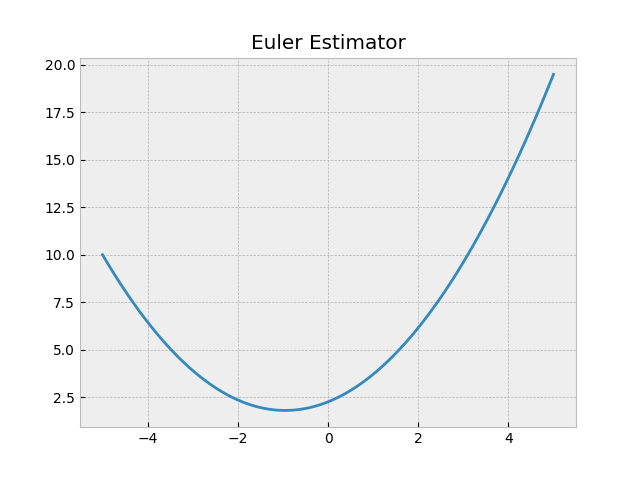
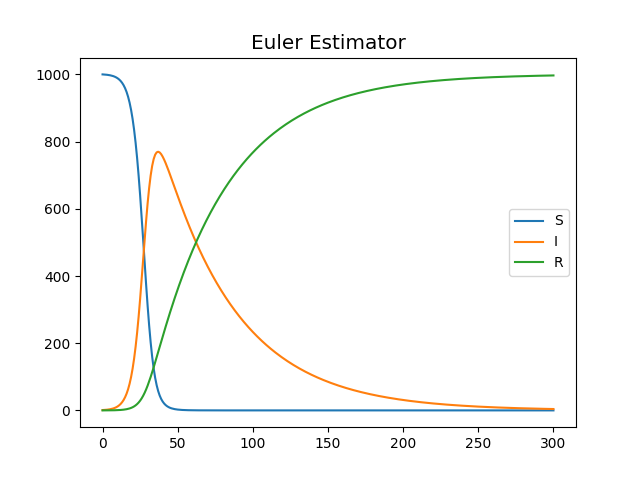
fixed 'plot' method

diff --git a/src/euler_estimator.py b/src/euler_estimator.py
@@ -1,4 +1,4 @@
-# import matplotlib.pyplot as plt
+import matplotlib.pyplot as plt
 
 class EulerEstimator:
   def __init__(self, derivative):
@@ -10,8 +10,6 @@ class EulerEstimator:
   def step_forward(self, point, step_size):
     point1 = point[0]+step_size
     deriv = self.calc_derivative_at_point(point)
-    print('deriv', deriv)
-    print('point1', point)
     point2 = {key:point[1][key]+deriv[key]*step_size for key in deriv}
     return (point1, point2)
   
@@ -22,17 +20,22 @@ class EulerEstimator:
     for num in range(num_steps):
       curr_point = self.step_forward(curr_point, step_size)
       output_list.append(curr_point)
+    for point in output_list:
+      new_point = {key: round(value, 5) for key, value in point[1].items()}
+      point = (point[0], new_point)
     return output_list
 
   def plot(self, point, step_size, num_steps):
     points = self.calc_estimated_points(point, step_size, num_steps)
-    x_list = []
-    y_list = []
-    for pair in points:
-      x_list.append(pair[0])
-      y_list.append(pair[1])
+    legend = []
+    for variable in points[0][1]:
+      x_list = [x[0] for x in points]
+      y_list = [y[1][variable] for y in points]
+      plt.plot(x_list, y_list)
+      legend.append(variable)
+
+    plt.legend(legend)
     plt.style.use('bmh')
-    plt.plot(x_list, y_list)
     plt.title('Euler Estimator')
     plt.savefig('euler.png')
 

diff --git a/analysis/sir_model.py b/analysis/sir_model.py
@@ -27,7 +27,7 @@ import matplotlib.pyplot as plt
 derivatives = {'S': (lambda t,x: -0.0003*x['S']*x['I']),'I': (lambda t,x: 0.0003*x['S']*x['I'] -0.02*x['I']),'R': (lambda t,x: 0.02*x['I'])}
 euler = EulerEstimator(derivative = derivatives)
 
-initial_values = {'S': -0.3, 'I': 0.28, 'R': 0.02}
+initial_values = {'S': 1000, 'I': 1, 'R': 0}
 initial_point = (0, initial_values)
 
-euler.plot(point=initial_point, step_size=0.1, num_steps=100)
+euler.plot(point=initial_point, step_size=1, num_steps=300)

diff --git a/tests/test_euler_estimator.py b/tests/test_euler_estimator.py
@@ -52,6 +52,7 @@ print('passed')
 
 print('testing step forward...')
 point_3 = euler.step_forward(point = point_2, step_size = -0.5)
+point_3 = (point_3[0], {key: round(value, 5) for key, value in point_3[1].items()})
 assert point_3 == (-0.4, {'A': -0.45, 'B': -0.05, 'C': 0})
 print('passed')
 
@@ -63,3 +64,10 @@ assert euler.calc_estimated_points(point=point_3, step_size=2, num_steps=3) == [
    (5.6, {'A': 13.85, 'B': 2.35, 'C': -11.8}) # after 3rd step
 ]
 print('passed')
+
+
+
+
+
+
+
